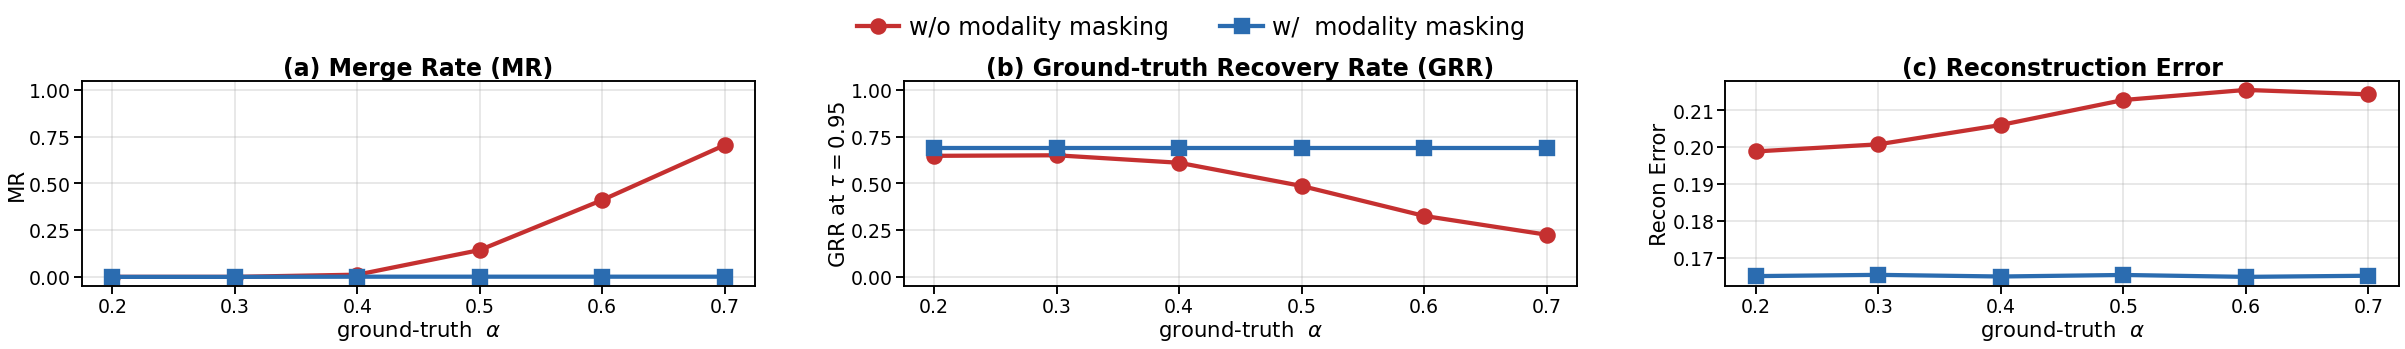
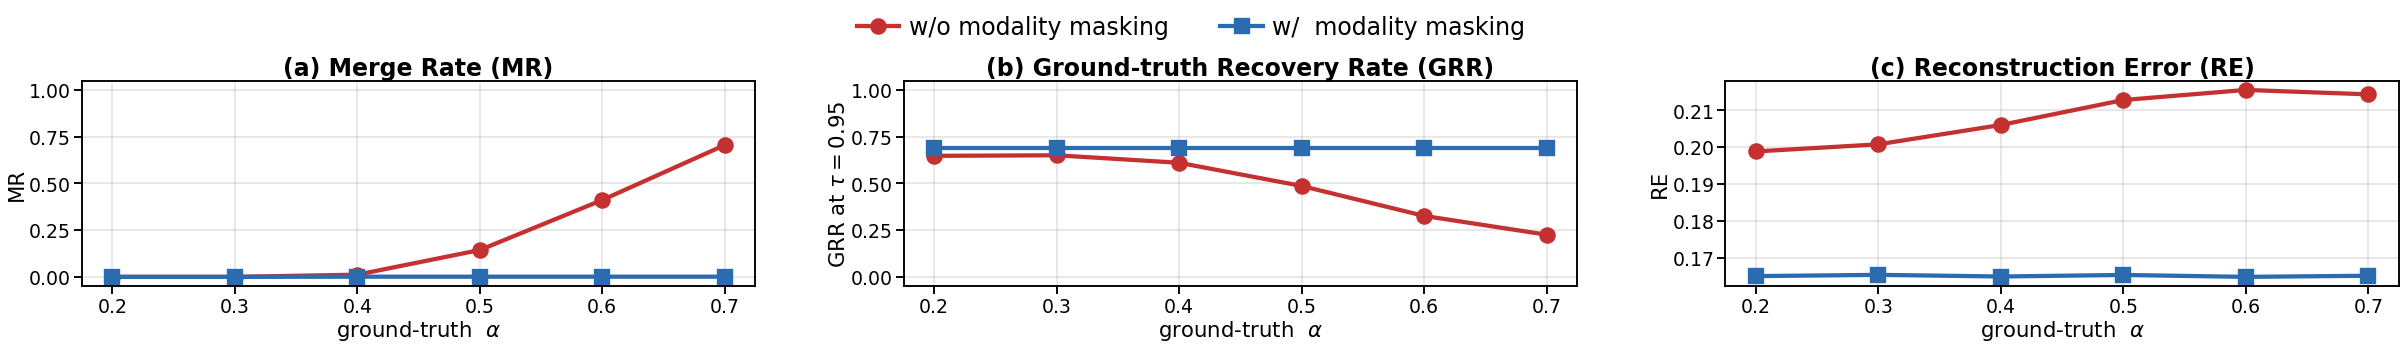
fig1: panel (c) y-label 'RE', title with '(RE)' abbreviation

Changed region(s): [[0.7796, 0.1433, 0.9356, 0.2292], [0.6861, 0.4871, 0.7173, 0.5731]]

diff --git a/scripts/plot_fig1_three_panels.py b/scripts/plot_fig1_three_panels.py
@@ -30,7 +30,7 @@ PANELS = [
     # (metric_key,                 ylabel,               title,                                    ylim,     yticks_step)
     ("merged_fraction",            "MR",                  "(a) Merge Rate (MR)",                    (-0.05, 1.05), None),
     ("img_mgt_shared_tau0.95",     r"GRR at $\tau=0.95$", "(b) Ground-truth Recovery Rate (GRR)",   (-0.05, 1.05), None),
-    ("avg_eval_loss",              "Recon Error",          "(c) Reconstruction Error",               None,          0.01),
+    ("avg_eval_loss",              "RE",                   "(c) Reconstruction Error (RE)",          None,          0.01),
 ]
 
 
